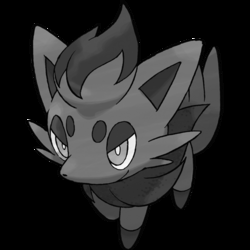
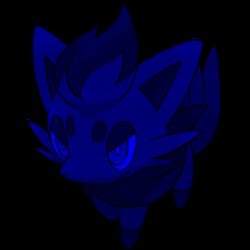
Refactor RGB component extraction in color.py to use zero arrays; update main.py to save images in RGB format

diff --git a/lab1/color.py b/lab1/color.py
@@ -3,9 +3,13 @@ import numpy as np
 from os import path
 
 def split_rgb_components(img_array):
-    r = img_array[:, :, 0]
-    g = img_array[:, :, 1]
-    b = img_array[:, :, 2]
+    r = np.zeros_like(img_array)
+    r[:, :, 0] = img_array[:, :, 0] 
+    g = np.zeros_like(img_array)
+    g[:, :, 1] = img_array[:, :, 1]  
+    b = np.zeros_like(img_array)
+    b[:, :, 2] = img_array[:, :, 2]  
+    
     return r, g, b
 
 def rgb_to_hsi(img_array):
@@ -15,18 +19,15 @@ def rgb_to_hsi(img_array):
     for i in range(img_normalized.shape[0]):
         for j in range(img_normalized.shape[1]):
             r, g, b = img_normalized[i, j]
-            
-            # Intensity
+        
             i_val = (r + g + b) / 3.0
             
-            # Saturation
             min_val = min(r, g, b)
             if (r + g + b) == 0:
                 s_val = 0.0
             else:
                 s_val = 1.0 - (3 * min_val) / (r + g + b)
             
-            # Hue
             numerator = 0.5 * ((r - g) + (r - b))
             denominator = np.sqrt((r - g)**2 + (r - b)*(g - b)) + 1e-6
             theta = np.arccos(numerator / denominator)

diff --git a/lab1/main.py b/lab1/main.py
@@ -88,9 +88,9 @@ if __name__ == '__main__':
         
         if selected_operation == 'rgb':
             r, g, b = split_rgb_components(img)
-            Image.fromarray(r, 'L').save(path.join(output_dir, 'R.png'))
-            Image.fromarray(g, 'L').save(path.join(output_dir, 'G.png'))
-            Image.fromarray(b, 'L').save(path.join(output_dir, 'B.png'))
+            Image.fromarray(r, 'RGB').save(path.join(output_dir, 'R.png'))
+            Image.fromarray(g, 'RGB').save(path.join(output_dir, 'G.png'))
+            Image.fromarray(b, 'RGB').save(path.join(output_dir, 'B.png'))
             print("Компоненты сохранены как R.png, G.png, B.png")
         
         elif selected_operation == 'hsi':
